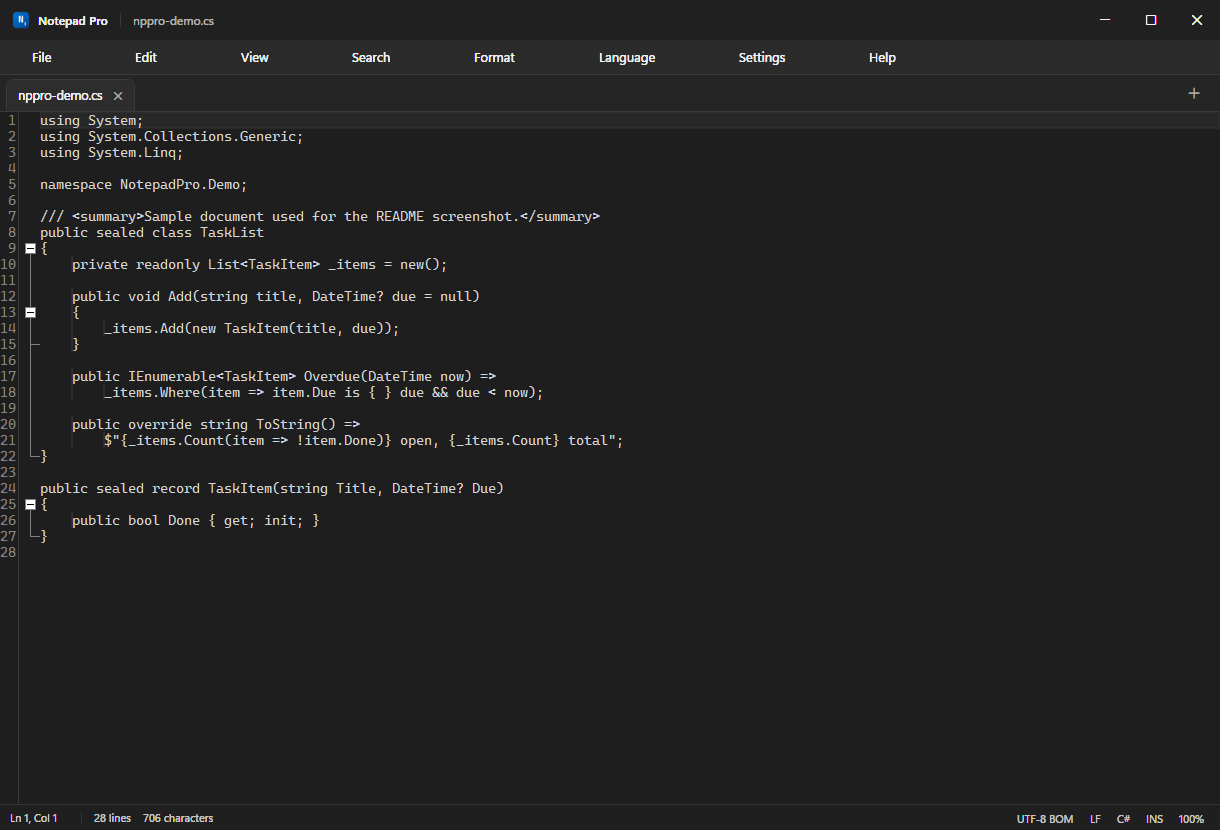
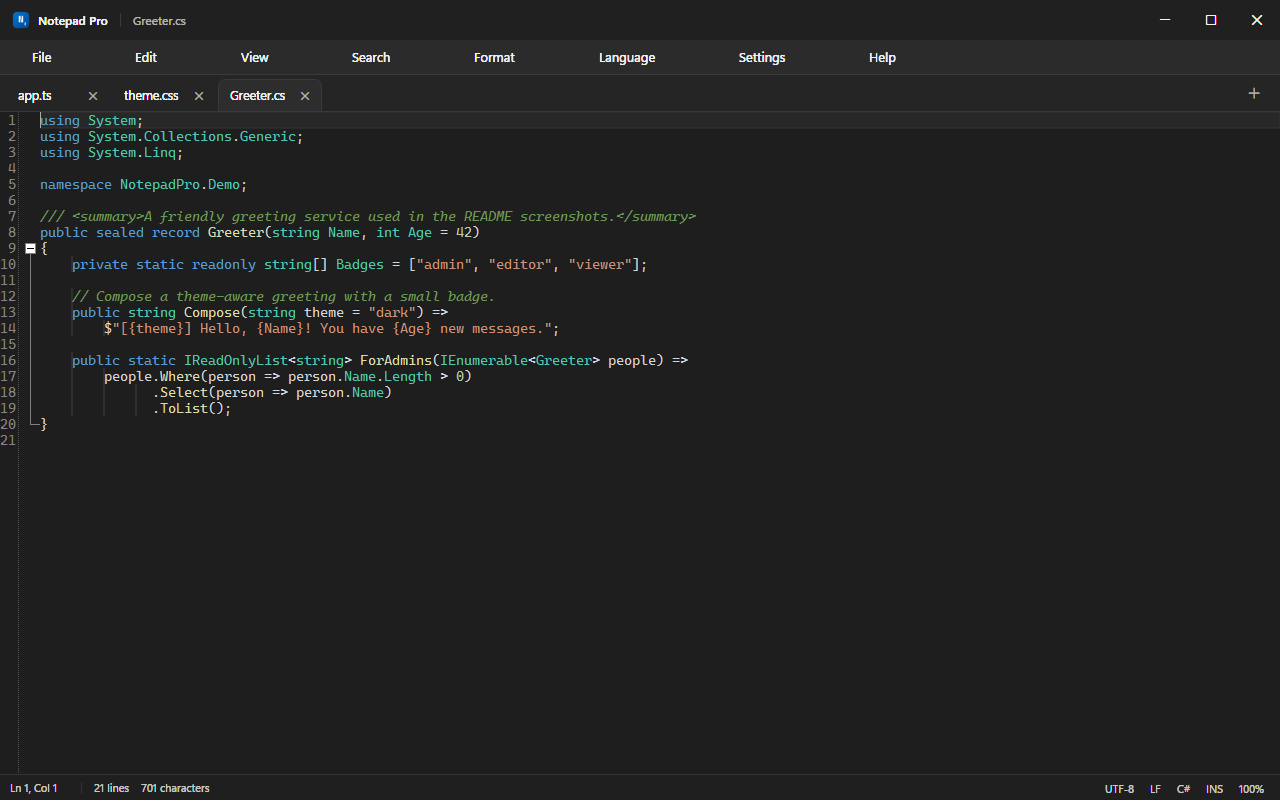
Refresh README with new screenshots and modern layout

diff --git a/README.md b/README.md
@@ -1,32 +1,134 @@
-<div align="center">
+<p align="center">
+  <img src="docs/icon.png" width="92" alt="Notepad Pro icon">
+</p>
 
-# Notepad Pro
+<h1 align="center">Notepad Pro</h1>
 
-**A fast, native Windows text and code editor — the simplicity of Notepad, with the features you actually miss.**
+<p align="center">
+  <b>The simplicity of Notepad. The features you actually miss.</b><br>
+  A fast, native Windows editor with syntax highlighting, tabs, search, themes, and zero telemetry.
+</p>
 
-[![Latest release](https://img.shields.io/github/v/release/amh2002/notepad-pro?style=flat-square&color=0078D4)](https://github.com/amh2002/notepad-pro/releases/latest)
-[![Build](https://img.shields.io/github/actions/workflow/status/amh2002/notepad-pro/build.yml?style=flat-square&label=build)](https://github.com/amh2002/notepad-pro/actions/workflows/build.yml)
-[![Downloads](https://img.shields.io/github/downloads/amh2002/notepad-pro/total?style=flat-square)](https://github.com/amh2002/notepad-pro/releases)
-[![License](https://img.shields.io/github/license/amh2002/notepad-pro?style=flat-square)](LICENSE)
-[![Platform](https://img.shields.io/badge/platform-Windows%2010%20%7C%2011-0078D4?style=flat-square)](#requirements)
-[![.NET](https://img.shields.io/badge/.NET-10-512BD4?style=flat-square)](https://dotnet.microsoft.com/)
+<p align="center">
+  <a href="https://github.com/amh2002/notepad-pro/releases/latest"><img src="https://img.shields.io/github/v/release/amh2002/notepad-pro?style=flat-square&color=0078D4&label=release" alt="Latest release"></a>
+  <a href="https://github.com/amh2002/notepad-pro/actions/workflows/build.yml"><img src="https://img.shields.io/github/actions/workflow/status/amh2002/notepad-pro/build.yml?style=flat-square&label=build" alt="Build"></a>
+  <a href="https://github.com/amh2002/notepad-pro/releases"><img src="https://img.shields.io/github/downloads/amh2002/notepad-pro/total?style=flat-square" alt="Downloads"></a>
+  <a href="LICENSE"><img src="https://img.shields.io/github/license/amh2002/notepad-pro?style=flat-square" alt="License"></a>
+  <img src="https://img.shields.io/badge/platform-Windows%2010%20%7C%2011-0078D4?style=flat-square" alt="Windows 10 and 11">
+  <img src="https://img.shields.io/badge/.NET-10-512BD4?style=flat-square" alt=".NET 10">
+</p>
 
-[Download](#download) · [Features](#features) · [Shortcuts](#keyboard-shortcuts) · [Build](#build-from-source) · [Contributing](CONTRIBUTING.md)
+<p align="center">
+  <a href="#download"><img src="https://img.shields.io/badge/Download_Notepad_Pro_1.0.2-0078D4?style=for-the-badge&logo=windows11&logoColor=white" alt="Download Notepad Pro 1.0.2"></a>
+</p>
 
-<img src="docs/screenshot.png" width="920" alt="Notepad Pro showing a C# file with syntax highlighting and the dark theme">
+<p align="center">
+  <img src="docs/screenshot.png" width="920" alt="Notepad Pro in dark mode showing highlighted C# code with TypeScript and CSS tabs">
+</p>
 
-</div>
+<p align="center">
+  <sub>Visual Studio Dark · C# · TypeScript and CSS tabs · line numbers and status bar</sub>
+</p>
+
+| ⚡ **Fast** | 🪶 **Light** | 🎨 **Made for code** |
+| :---: | :---: | :---: |
+| Starts in about a second | ~70 MB, self-contained | 21 languages, 6 color schemes |
 
 Notepad Pro is a real desktop application built with **C# / WPF on .NET 10** and the
-[AvalonEdit](https://github.com/icsharpcode/AvalonEdit) text engine. It starts in about a second, uses a
-fraction of the memory of an Electron editor, and never touches the network. No telemetry, no accounts,
-no placeholders — every menu item, shortcut, and setting does something.
+[AvalonEdit](https://github.com/icsharpcode/AvalonEdit) text engine. It opens quickly, uses a fraction
+of the memory of an Electron editor, and never touches the network. No telemetry, no accounts, no
+placeholders — every menu item, shortcut, and setting does something.
+
+> [!NOTE]
+> **New in 1.0.2:** syntax highlighting is fixed in C#, HTML, and XML, and several theme rules now
+> render correctly, including CSS hex colors, Rust attributes, and Markdown headings.
+> See the [changelog](CHANGELOG.md) for details.
+
+## Screenshots
+
+<table>
+  <tr>
+    <td width="50%" align="center">
+      <a href="docs/screenshot-light.png"><img src="docs/screenshot-light.png" width="400" alt="Visual Studio Light theme with C# syntax highlighting"></a><br>
+      <sub><b>Visual Studio Light</b> — the same file in a bright palette</sub>
+    </td>
+    <td width="50%" align="center">
+      <a href="docs/screenshot-search.png"><img src="docs/screenshot-search.png" width="400" alt="Find and replace overlay with highlighted matches"></a><br>
+      <sub><b>Find &amp; replace</b> — live counts and highlighted matches</sub>
+    </td>
+  </tr>
+</table>
+
+<p align="center">
+  <a href="docs/screenshot-settings.png"><img src="docs/screenshot-settings.png" width="620" alt="Settings dialog showing themes, fonts, and editor options"></a><br>
+  <sub><b>Settings</b> — themes, fonts, syntax colors, editor behavior, and recovery</sub>
+</p>
+
+## Features
+
+### ⚡ Native, fast, and focused
+
+- Built with **C# / WPF on .NET 10** and the **AvalonEdit** text engine.
+- Starts in about a second and stays responsive with large documents.
+- Custom Fluent-style title bar, menu bar, tab strip, editor, and status bar.
+- No telemetry, no accounts, no background network calls.
+
+### 🎨 Syntax highlighting for 21 languages
+
+`C#` · `C` · `C++` · `Java` · `JavaScript` · `TypeScript` · `Python` · `HTML` · `CSS` · `SCSS` ·
+`JSON` · `XML` · `SQL` · `PHP` · `Go` · `Rust` · `Bash` · `PowerShell` · `YAML` · `Markdown` ·
+`Plain Text`
+
+- Six editor color schemes: **Auto**, **Visual Studio Light**, **Visual Studio Dark**, **One Dark**,
+  **GitHub Light**, and **GitHub Dark**.
+- Per-scheme syntax color overrides with a color picker, hex input, and reset.
+- Language detection from the file extension **and** document content.
+- Paste-to-detect for new untitled documents, plus a manual language override per tab.
+- Code folding for braces, XML/HTML, Markdown, and indentation-based languages.
+
+### 🗂 Tabs, sessions, and the little things
+
+- Multi-tab editing with modified (`*`) indicators and close buttons.
+- Tab context menu: Save, Save as, Close, Close others, Close all, Copy full path, Open containing
+  folder, and Reload from disk.
+- Session restore after restart, **Reopen closed tab** (`Ctrl+Shift+T`), and drag-and-drop files.
+- Per-tab caret position, scroll position, folded regions, language, encoding, and line endings.
+- Line numbers, current-line highlight, indentation guides, bracket matching, whitespace and
+  line-ending markers, word wrap, and zoom.
+
+### 🔍 Search and editing commands
+
+- Find and replace overlay with match count, next/previous navigation, and highlighted results.
+- Case-sensitive, whole-word, and .NET regular-expression modes.
+- Replace, Replace all, and clear errors for invalid patterns.
+- Go to line (`Ctrl+G`), Find next (`F3`), and Find previous (`Shift+F3`).
+- Duplicate/delete/move lines, toggle comment, indent/outdent, trim trailing whitespace, convert case,
+  and insert date/time.
+
+### 🛡 Files, encodings, and recovery
+
+- Opens any text file, with first-class support for code and markup extensions.
+- Detects UTF-8, UTF-8 with BOM, UTF-16 LE/BE, UTF-32, and an ANSI fallback; preserves the detected
+  encoding when saving.
+- Detects and preserves **CRLF**, **LF**, and **CR** line endings.
+- Atomic saves (temporary file + replace), read-only handling, and external-change detection.
+- Background recovery snapshots plus a themed restore prompt on the next launch.
+- A 200 MB per-file limit with a clear message instead of an out-of-memory crash.
+
+### 🌗 Themes and typography
+
+- Application themes: **System** (follows Windows), **Light**, and **Dark**.
+- The whole shell — menus, tabs, dialogs, prompts, and the status bar — follows the active theme.
+- Configurable editor font, size, tab size, soft tabs, and layout toggles.
+- A live preview in Settings shows the selected font and syntax palette.
 
 ## Download
 
-[**Download the latest release →**](https://github.com/amh2002/notepad-pro/releases/latest)
+<p align="center">
+  <a href="https://github.com/amh2002/notepad-pro/releases/latest"><img src="https://img.shields.io/badge/Download_the_latest_release-0078D4?style=for-the-badge&logo=github&logoColor=white" alt="Download the latest release"></a>
+</p>
 
-| File | Description |
+| Asset | Description |
 | --- | --- |
 | `NotepadPro.exe` | Portable single file. Double-click and go — no installation required. |
 | `NotepadPro-1.0.2-win-x64.zip` | Portable bundle: executable, README, license, and install/uninstall scripts. |
@@ -35,9 +137,10 @@ no placeholders — every menu item, shortcut, and setting does something.
 **Requirements:** Windows 10 or 11, 64-bit. The executable is self-contained, so the .NET runtime is
 not required.
 
-> **Windows SmartScreen:** the build is not code-signed, so Windows may show *"Windows protected your
-> PC"* the first time you run it. Choose **More info → Run anyway**. You can verify the download with
-> the checksums below.
+> [!WARNING]
+> The build is not code-signed, so Windows SmartScreen may show *"Windows protected your PC"* the
+> first time you run it. Choose **More info → Run anyway**, or verify the download with the
+> checksums below.
 
 ### Install for the current user
 
@@ -64,79 +167,10 @@ Get-FileHash .\NotepadPro.exe -Algorithm SHA256
 Get-Content .\SHA256SUMS.txt
 ```
 
-## Features
-
-### Window and tabs
-
-- Custom Fluent-style title bar with the document name, a modified (`*`) indicator, and native
-  minimize / maximize / close behavior.
-- Multi-tab editing with per-tab modified indicators and close buttons.
-- Tab context menu: Save, Save as, Close, Close other tabs, Close all tabs, Copy full path, Open
-  containing folder, Reload from disk.
-- Session restore after restart, plus **Reopen closed tab** (`Ctrl+Shift+T`).
-- Drag and drop files onto the window to open them.
-- Per-tab caret position, scroll position, folded regions, language, encoding, and line endings.
-
-### Editor
-
-- Line numbers, current-line highlight, indentation guides, bracket matching, and whitespace /
-  line-ending markers.
-- Code folding for braces, XML/HTML, Markdown, and indentation-based languages.
-- Smart auto-indent for C-style braces, Python, and YAML; configurable tab size and soft tabs.
-- Word wrap, zoom (`Ctrl+Plus` / `Ctrl+Minus` / `Ctrl+0`), insert/overwrite mode.
-- Syntax highlighting for:
-
-  `C#` · `C` · `C++` · `Java` · `JavaScript` · `TypeScript` · `Python` · `HTML` · `CSS` · `SCSS` ·
-  `JSON` · `XML` · `SQL` · `PHP` · `Go` · `Rust` · `Bash` · `PowerShell` · `YAML` · `Markdown` ·
-  `Plain Text`
-
-- Language detection from the file extension and from document content, automatic detection when
-  pasting code into a new untitled document, plus manual language override per tab.
-
-### Search and replace
-
-- Find and replace overlay with match count, next/previous navigation, and highlighted results.
-- Case-sensitive, whole-word, and .NET regular-expression modes.
-- Replace, Replace all, and clear error reporting for invalid patterns.
-- Go to line (`Ctrl+G`), Find next (`F3`), Find previous (`Shift+F3`).
-
-### Editing commands
-
-Undo/redo, cut/copy/paste, select all, duplicate line, delete line, move line up/down, toggle
-comment, indent/outdent selection, trim trailing whitespace, convert case (UPPERCASE, lowercase,
-Title Case, Sentence case), insert date/time, and full keyboard shortcut coverage.
-
-### Files and encodings
-
-- Opens and saves `.txt`, `.md`, `.cs`, `.js`, `.ts`, `.py`, `.html`, `.css`, `.json`, `.xml`,
-  `.sql`, `.yaml`, and any other text file.
-- Detects UTF-8, UTF-8 with BOM, UTF-16 LE/BE, UTF-32, and an ANSI fallback; preserves the detected
-  encoding when saving, with a manual override.
-- Detects and preserves CRLF, LF, and CR line endings.
-- Atomic save (temporary file + replace) so a failed write cannot truncate the original.
-- Safe handling of read-only files and files changed by another program.
-- 200 MB per-file limit with a clear message instead of an out-of-memory crash.
-
-### Appearance
-
-- Application themes: **System** (follows the Windows app theme), **Light**, and **Dark**.
-- Editor color schemes: **Auto**, **Visual Studio Light**, **Visual Studio Dark**, **One Dark**,
-  **GitHub Light**, and **GitHub Dark**.
-- Per-scheme syntax color overrides with a color picker, hex input, palette, and reset.
-- Configurable editor font and size, line numbers, current line, guides, brackets, whitespace,
-  line endings, status bar, word wrap, folding, tab size, and more.
-- The whole shell, including dialogs and message prompts, follows the selected theme.
-
-### Recovery and data safety
-
-- Unsaved documents are snapshotted in the background to
-  `%LOCALAPPDATA%\NotepadPro\Recovery`.
-- A themed recovery prompt on the next launch lets you restore or discard the snapshots.
-- Settings, session, and recent files are written atomically to `%APPDATA%\NotepadPro`.
-- Unexpected UI exceptions are logged to `%LOCALAPPDATA%\NotepadPro\error.log` and shown in a
-  dialog instead of silently terminating.
-
 ## Keyboard shortcuts
+
+<details>
+<summary><b>Show all shortcuts</b></summary>
 
 | Action | Shortcut |
 | --- | --- |
@@ -165,6 +199,8 @@ Title Case, Sentence case), insert date/time, and full keyboard shortcut coverag
 | Toggle status bar | `Ctrl+Shift+B` |
 | Settings | `Ctrl+,` |
 | Keyboard shortcuts | `F1` |
+
+</details>
 
 ## Build from source
 
@@ -242,6 +278,9 @@ Deleting these folders resets Notepad Pro to its defaults.
 
 ## Known limitations
 
+<details>
+<summary><b>Show limitations</b></summary>
+
 - No multi-cursor or column/box selection.
 - No minimap and no native line-spacing control (the AvalonEdit engine does not expose one).
 - No split view or preview pane.
@@ -251,6 +290,8 @@ Deleting these folders resets Notepad Pro to its defaults.
 - Files larger than 200 MB are declined rather than opened in a degraded mode.
 - Very large documents (tens of MB) may take a moment to highlight and fold.
 - Release builds are not code-signed, so SmartScreen may warn on first launch.
+
+</details>
 
 ## Contributing
 
